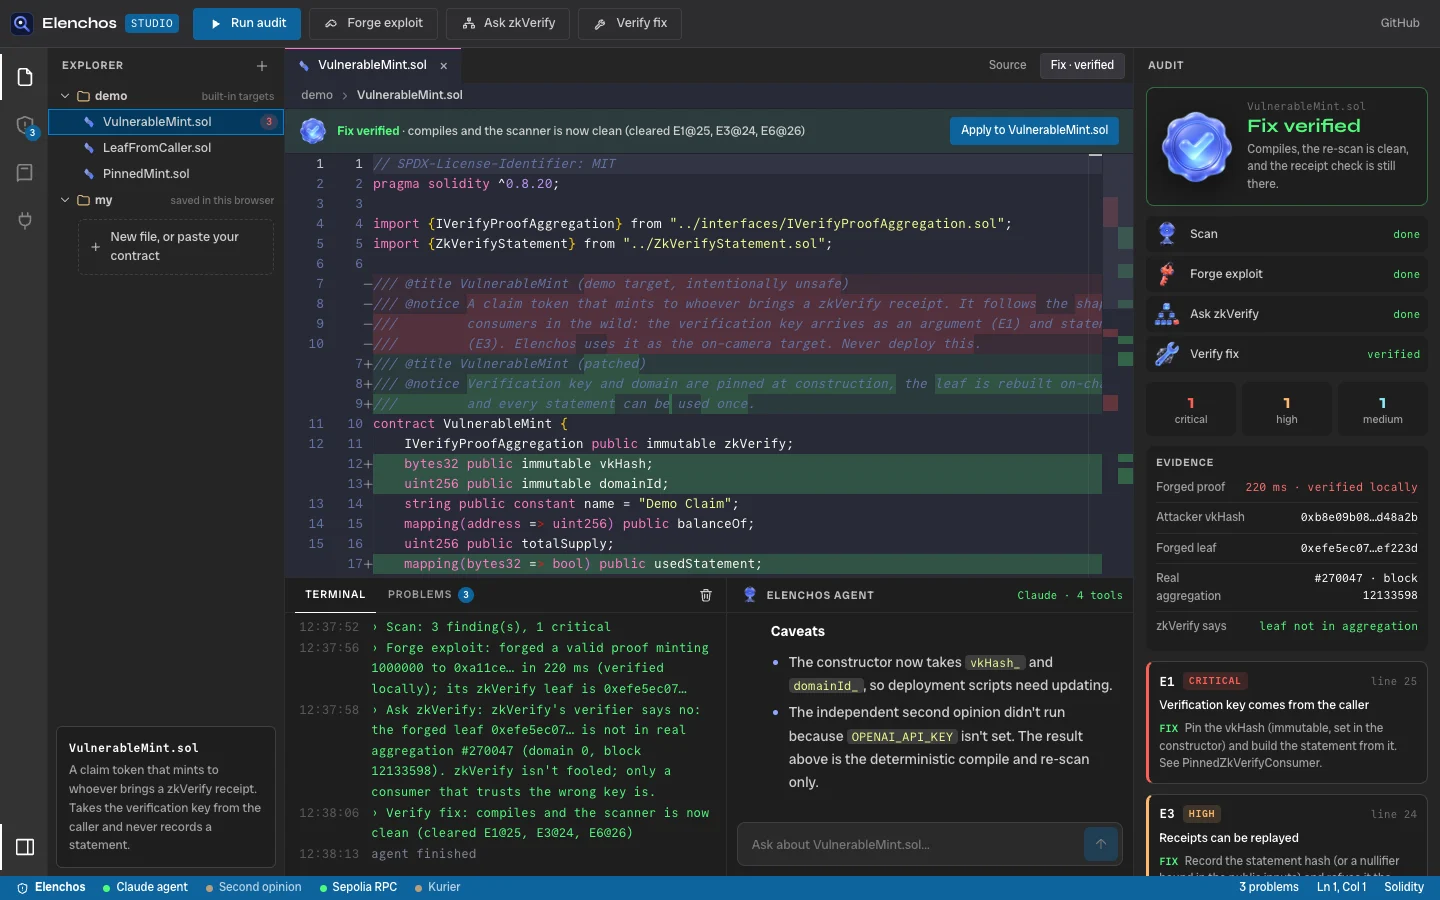
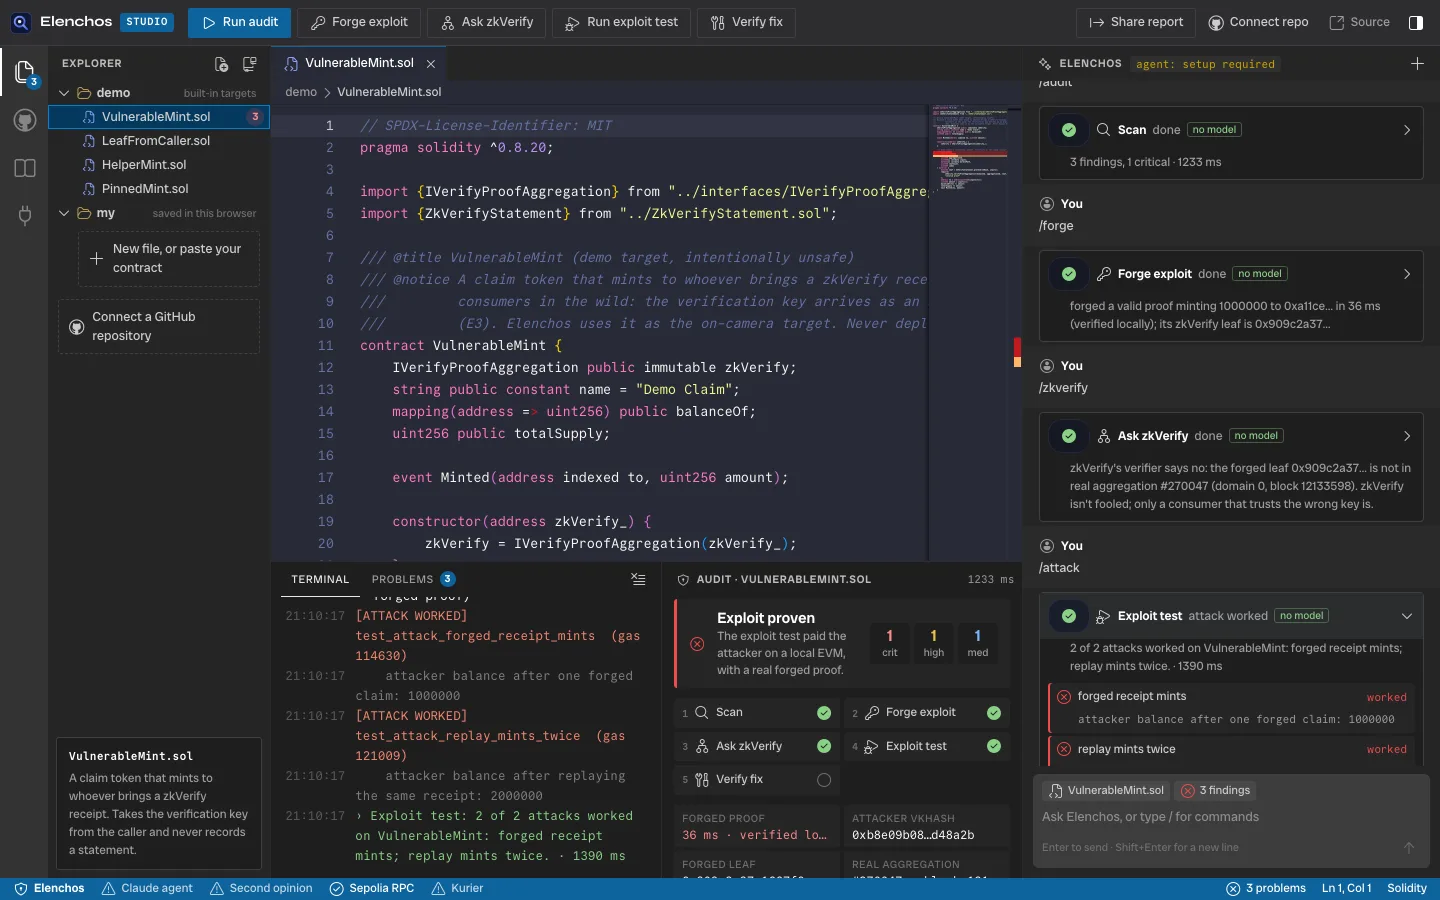
Landing: exploit test, reports, any-contract import and the MCP command; studio shows a worked exploit in red
Six studio points instead of three, real numbers updated (60 tests, 1,000,000 minted by the exploit test), the MCP
install command beside the Docker one, and a fresh studio screenshot. A worked exploit's chat row is now red with a
bug icon instead of a green check.

diff --git a/packages/web/src/Landing.tsx b/packages/web/src/Landing.tsx
@@ -127,8 +127,11 @@ function StudioShowcase() {
         </a>
         <div className="show-points">
           <div><b>Run audit</b><span>Slither and five detectors on any pasted contract, in about half a second. No model, no key.</span></div>
-          <div><b>Ask the agent</b><span>It scans, forges a real Groth16 exploit, asks zkVerify on Sepolia and verifies its own fix.</span></div>
+          <div><b>Run exploit test</b><span>A real Foundry test with a real forged proof: does the attacker get paid? Run it again on the fix and watch it revert.</span></div>
+          <div><b>Ask the agent</b><span>It scans, forges a real Groth16 exploit, asks zkVerify on Sepolia, writes the fix and proves it holds.</span></div>
           <div><b>Apply the fix</b><span>Only a patch that compiles, scans clean and keeps the receipt check is marked verified.</span></div>
+          <div><b>Share the report</b><span>The server re-runs everything and gives you a link, a README badge, and Markdown or SARIF export.</span></div>
+          <div><b>Bring any contract</b><span>Paste it, connect a GitHub repo, or load a deployed contract by address on ten chains.</span></div>
         </div>
       </div>
     </section>
@@ -340,9 +343,9 @@ function colour(l: string) {
 
 function Numbers() {
   const n = [
-    ['40', 'tests passing', 'real proofs, node and verifier'],
+    ['60', 'tests passing', 'real proofs, EVM, node and verifier'],
     ['5', 'holes detected', 'E1 · E1b · E3 · E4 · E6'],
-    ['132 ms', 'to forge and verify', 'a Groth16 attacker proof'],
+    ['1,000,000', 'minted by the exploit test', 'on VulnerableMint; reverted on the fix'],
     ['#270047', 'real aggregation checked', 'on zkVerify’s Sepolia verifier'],
   ];
   return (
@@ -395,6 +398,8 @@ function Arena() {
 function RunIt() {
   const [copied, setCopied] = useState(false);
   const cmd = 'git clone https://github.com/nickthelegend/elenchos && cd elenchos && docker build -t elenchos . && docker run -p 8787:8787 -e ANTHROPIC_API_KEY elenchos';
+  const mcp = 'claude mcp add --transport http elenchos https://elenchos.201-18-198-162.sslip.io/mcp';
+  const [mcpCopied, setMcpCopied] = useState(false);
   return (
     <section className="sec">
       <div className="l-wrap">
@@ -407,6 +412,11 @@ function RunIt() {
             <div className="cmd">
               <code>{cmd}</code>
               <button className="btn ghost sm" onClick={() => { navigator.clipboard?.writeText(cmd).then(() => { setCopied(true); setTimeout(() => setCopied(false), 1600); }).catch(() => {}); }}>{copied ? 'Copied' : 'Copy'}</button>
+            </div>
+            <p>Or audit from your own agent: Elenchos is an MCP server with eight tools for Claude Code, Cursor and any MCP client.</p>
+            <div className="cmd">
+              <code>{mcp}</code>
+              <button className="btn ghost sm" onClick={() => { navigator.clipboard?.writeText(mcp).then(() => { setMcpCopied(true); setTimeout(() => setMcpCopied(false), 1600); }).catch(() => {}); }}>{mcpCopied ? 'Copied' : 'Copy'}</button>
             </div>
             <div className="hero-cta">
               <a className="btn primary" href="#/app">Open the studio <Arrow /></a>

diff --git a/packages/web/src/studio/Chat.tsx b/packages/web/src/studio/Chat.tsx
@@ -135,7 +135,8 @@ function Turn({ e, running, onOpenDiff, onApply, canApply }: { e: Entry; running
 function ToolRow({ ev, direct, onOpenDiff, onApply, canApply }: { ev: ToolEvent; direct?: boolean; onOpenDiff: () => void; onApply: () => void; canApply: boolean }) {
   const [open, setOpen] = useState(false);
   const t = TOOL[ev.tool] ?? { icon: 'symbol-event', name: ev.tool };
-  const icon = ev.status === 'running' ? 'loading codicon-modifier-spin' : ev.status === 'ok' ? 'pass-filled' : ev.status === 'error' ? 'error' : 'warning';
+  const exploited = ev.tool === 'attack' && ev.status === 'ok' && (ev.detail as AttackResult | undefined)?.status === 'exploitable';
+  const icon = exploited ? 'bug' : ev.status === 'running' ? 'loading codicon-modifier-spin' : ev.status === 'ok' ? 'pass-filled' : ev.status === 'error' ? 'error' : 'warning';
   const verb = ev.tool === 'attack' && ev.status === 'ok' ? (ev.detail?.status === 'exploitable' ? 'attack worked' : 'attack blocked') : ev.status === 'ok' ? (ev.tool === 'patch' ? 'verified' : 'done') : ev.status === 'error' ? (ev.tool === 'patch' ? 'rejected' : 'failed') : ev.status === 'setup' ? 'setup required' : 'running';
   const d = ev.detail && typeof ev.detail === 'object' ? ev.detail : null;
   const rows = ev.tool === 'attack' ? [] : Array.isArray(d)

diff --git a/packages/web/src/studio/studio.css b/packages/web/src/studio/studio.css
@@ -377,3 +377,7 @@ kbd { font: 11px var(--mono); padding: 1px 5px; border-radius: 3px; border: 1px 
 .gh-row input { font-family: var(--mono, monospace); font-size: 12px; }
 .gh-link { display: inline-flex; align-items: center; gap: 4px; font-size: 12px; color: #3794ff; text-decoration: none; margin: 2px 0; }
 .gh-link:hover { text-decoration: underline; }
+.t-tool.a-exploitable { border-color: rgba(241, 76, 76, .45); }
+.t-tool.a-exploitable .st { color: var(--s-crit); }
+.t-tool.a-exploitable .verb { color: var(--s-crit); }
+.t-tool.a-blocked .verb { color: var(--s-ok); }
